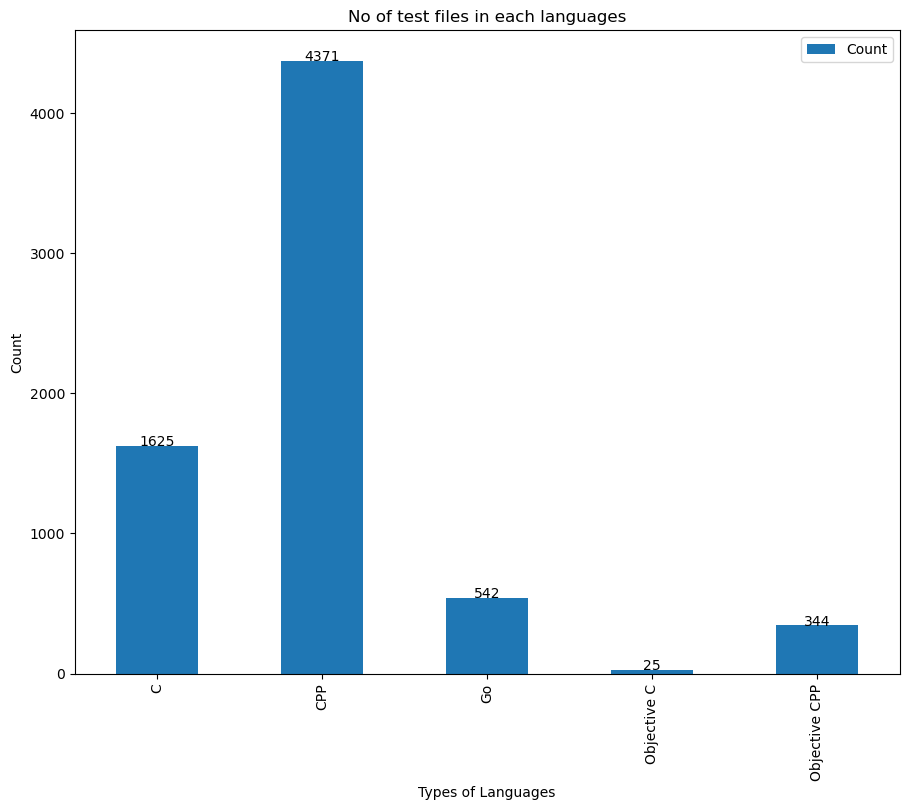
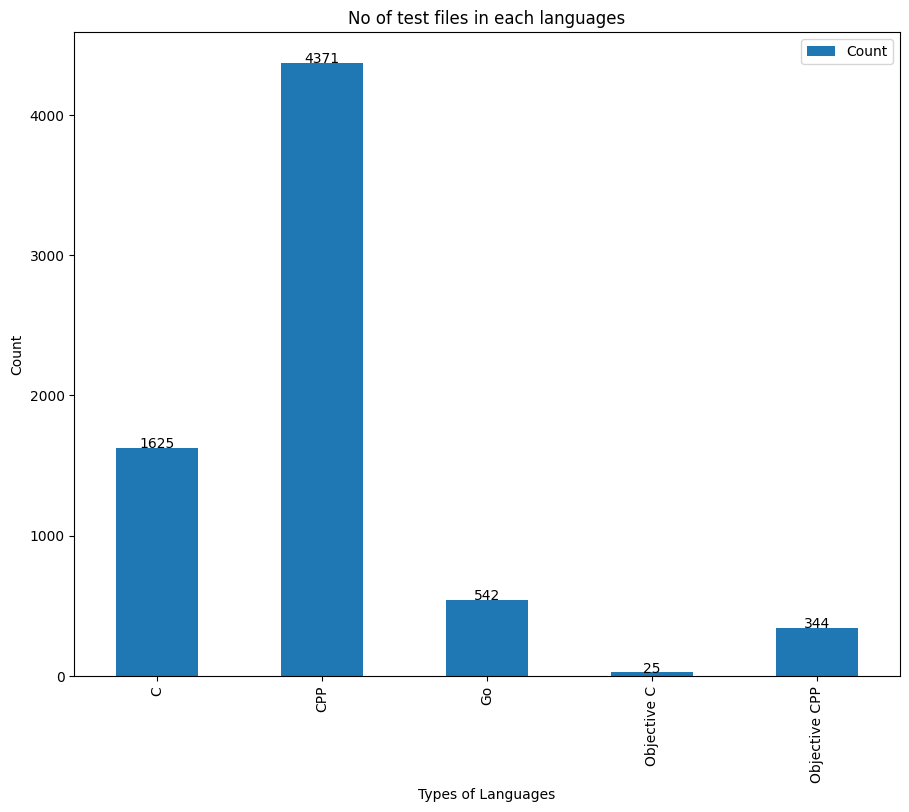
changes to plot

diff --git a/gen_figures.py b/gen_figures.py
@@ -28,7 +28,7 @@ def generateLanguageBasedTestFiles():
     def addlabels(x,y):
         for i in range(len(x)):
             plt.text(i, y[i], y[i], ha = 'center')
-
+    c=['blue','orange','red','purple',"brown"]
     df.plot(x="Name", y=["Count"], kind="bar", figsize=(9, 8))
     # plt.bar(list(name_data),list(count_data))
     plt.tight_layout()
@@ -176,11 +176,11 @@ def quarterlyData():
     plt.savefig('figures/quarterlyData.png', bbox_inches='tight')
 
 
-generateExtensionPlot()
-quarterlyData()
-changesPerWeek()
-topContributers()
-generateAssertFilesPlot()
-generateAssertFilesProdPlot()
+# generateExtensionPlot()
+# quarterlyData()
+# changesPerWeek()
+# topContributers()
+# generateAssertFilesPlot()
+# generateAssertFilesProdPlot()
 generateLanguageBasedTestFiles()
-generateLanguageBasedDebugFiles()
+# generateLanguageBasedDebugFiles()
